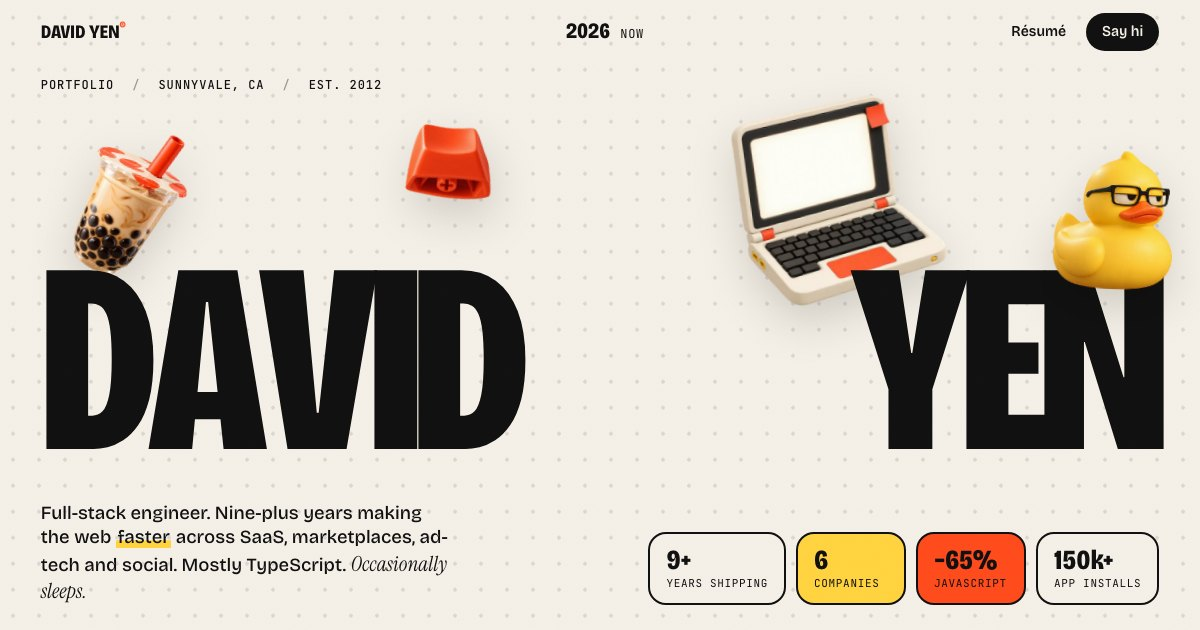
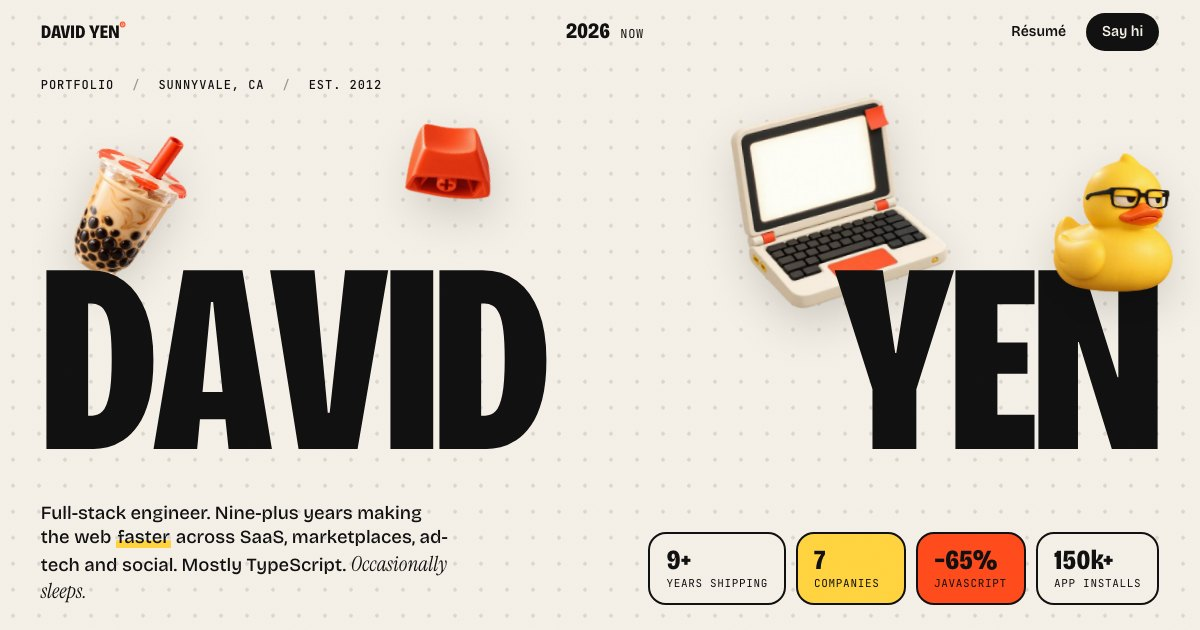
Add a classified Zoom chapter (2025–now)
- New seventh screen in Zoom blue on midnight navy. The name starts under a
  CLASSIFIED bar and is declassified as you scroll in. Redactions reveal
  nothing useful on hover/tap, and a spotlight follows the pointer across
  the grid.
- Copy names Zoom's Meeting SDK and Video SDK for the web. The one-line
  product descriptions follow developers.zoom.us; everything else stays
  redacted.
- Four new Codex image_gen toys: half-shuttered webcam, camera-off tile
  wall, muted mic, sealed folder.
- Typeface now ends in 2025; hero says 7 companies; DavidBot knows he's
  at Zoom; OG image, meta and README updated.

diff --git a/src/style.css b/src/style.css
@@ -339,7 +339,111 @@ mark {
   background: repeating-linear-gradient(0deg, var(--pc) 0 1px, transparent 1px 44px);
 }
 
-/* floating toys */
+/* Zoom: a spotlight that follows the pointer (or drifts on its own) and lights up the grid */
+@property --spx {
+  syntax: '<percentage>';
+  inherits: false;
+  initial-value: 72%;
+}
+@property --spy {
+  syntax: '<percentage>';
+  inherits: false;
+  initial-value: 42%;
+}
+.pattern--spot {
+  --pc: color-mix(in srgb, #0b5cff 55%, transparent);
+  background:
+    radial-gradient(circle at var(--spx) var(--spy), rgb(11 92 255 / 0.3), transparent 42vmax),
+    radial-gradient(var(--pc) 1.4px, transparent 1.9px) 0 0 / 22px 22px;
+  -webkit-mask-image: radial-gradient(circle 48vmax at var(--spx) var(--spy), #000, rgb(0 0 0 / 0.18) 62%, transparent);
+  mask-image: radial-gradient(circle 48vmax at var(--spx) var(--spy), #000, rgb(0 0 0 / 0.18) 62%, transparent);
+  animation: spot-drift 16s ease-in-out infinite alternate;
+  transition: --spx 0.9s var(--ease-out), --spy 0.9s var(--ease-out);
+}
+.has-pointer .pattern--spot {
+  animation: none;
+}
+@keyframes spot-drift {
+  0% {
+    --spx: 78%;
+    --spy: 30%;
+  }
+  50% {
+    --spx: 30%;
+    --spy: 60%;
+  }
+  100% {
+    --spx: 64%;
+    --spy: 78%;
+  }
+}
+
+/* redactions: black bars that declassify into something useless on hover/tap */
+.redact {
+  background: var(--ink);
+  color: var(--ink);
+  border-radius: 3px;
+  padding: 0 0.15em;
+  cursor: help;
+  outline-offset: 2px;
+  transition: background 0.25s, color 0.25s;
+}
+.redact:hover,
+.redact:focus-visible,
+.redact:focus {
+  background: transparent;
+  color: var(--name);
+  text-decoration: underline dashed;
+  text-underline-offset: 3px;
+}
+.co__role .redact {
+  background: var(--bg);
+  color: var(--bg);
+}
+.co__role .redact:hover,
+.co__role .redact:focus {
+  background: transparent;
+  color: var(--name);
+}
+.co__rec {
+  color: #ff3b4e;
+  font-weight: 700;
+  animation: blink 1.2s steps(2) infinite;
+}
+.is-mystery .co__name {
+  position: relative;
+  width: fit-content;
+}
+.redact-bar {
+  position: absolute;
+  inset: 0.04em -0.08em 0 -0.08em;
+  display: grid;
+  place-items: center;
+  background: #000;
+  border: 1px solid rgb(11 92 255 / 0.55);
+  border-radius: 0.04em;
+  transform-origin: 100% 50%;
+  pointer-events: none;
+}
+.redact-bar i {
+  font-family: var(--mono);
+  font-style: normal;
+  font-size: max(11px, 0.1em);
+  font-weight: 700;
+  letter-spacing: 0.45em;
+  text-transform: uppercase;
+  color: #0b5cff;
+}
+/* product names are long; keep the three Zoom stats on one row */
+.is-mystery .stat__num.is-word {
+  font-size: clamp(24px, 2.6vw, 42px);
+}
+.stat__num .redact {
+  padding: 0 0.08em;
+  border-radius: 0.06em;
+}
+
+/* floating toys *//* floating toys */
 .props {
   position: absolute;
   inset: 0;
@@ -1678,6 +1782,9 @@ mark {
   .co__stats.is-four .stat__num {
     font-size: clamp(22px, 6.6vw, 30px);
   }
+  .is-mystery .stat__num.is-word {
+    font-size: clamp(15px, 4.6vw, 22px);
+  }
   .stat__label {
     font-size: 9.5px;
     letter-spacing: 0;
@@ -1937,8 +2044,13 @@ mark {
   .hero__cue span,
   .projects__hint span,
   .bot-launch .badge,
-  .rewind__rew {
+  .rewind__rew,
+  .co__rec,
+  .pattern--spot {
     animation: none;
+  }
+  .redact-bar {
+    display: none;
   }
 }
 

diff --git a/index.html b/index.html
@@ -4,19 +4,19 @@
     <meta charset="UTF-8" />
     <meta name="viewport" content="width=device-width, initial-scale=1, viewport-fit=cover" />
     <title>David Yen · Full-stack engineer</title>
-    <meta name="description" content="David Yen, full-stack engineer in Sunnyvale, CA. Nine-plus years across Typeface, Houzz, Yahoo, Dcard and a few too many side projects. Mostly TypeScript." />
+    <meta name="description" content="David Yen, full-stack engineer in Sunnyvale, CA. Nine-plus years across Zoom, Typeface, Houzz, Yahoo, Dcard and a few too many side projects. Mostly TypeScript." />
     <meta name="theme-color" content="#F4EFE6" />
     <link rel="canonical" href="https://davidyen1124.github.io/portfolio/" />
     <meta property="og:type" content="website" />
     <meta property="og:title" content="David Yen · Full-stack engineer" />
-    <meta property="og:description" content="Six companies, too many side projects, one cookie banner. Scroll responsibly." />
+    <meta property="og:description" content="Seven companies, too many side projects, one cookie banner. Scroll responsibly." />
     <meta property="og:url" content="https://davidyen1124.github.io/portfolio/" />
     <meta property="og:image" content="https://davidyen1124.github.io/portfolio/og.jpg" />
     <meta property="og:image:width" content="1200" />
     <meta property="og:image:height" content="630" />
     <meta name="twitter:card" content="summary_large_image" />
     <meta name="twitter:title" content="David Yen · Full-stack engineer" />
-    <meta name="twitter:description" content="Six companies, too many side projects, one cookie banner. Scroll responsibly." />
+    <meta name="twitter:description" content="Seven companies, too many side projects, one cookie banner. Scroll responsibly." />
     <meta name="twitter:image" content="https://davidyen1124.github.io/portfolio/og.jpg" />
     <link rel="icon" href="/favicon.svg" type="image/svg+xml" />
     <link rel="apple-touch-icon" href="/apple-touch-icon.png" />
@@ -58,7 +58,7 @@
               </p>
               <ul class="hero__chips" aria-label="At a glance">
                 <li><b>9+</b><span>years shipping</span></li>
-                <li><b>6</b><span>companies</span></li>
+                <li><b>7</b><span>companies</span></li>
                 <li><b>−65%</b><span>JavaScript</span></li>
                 <li><b>150k+</b><span>app installs</span></li>
               </ul>
@@ -144,7 +144,7 @@
 
     <noscript>
       <style>.loader{display:none}</style>
-      <p style="padding:2rem;font:16px/1.5 system-ui">David Yen, full-stack engineer. Typeface (2023–now), Houzz (2021–2023), Yahoo (2017–2021), Dcard (2013–2015), CHOCOLABS (2014–2015), Sparks Lab (2012–2015). Email davidyen1124@gmail.com.</p>
+      <p style="padding:2rem;font:16px/1.5 system-ui">David Yen, full-stack engineer. Zoom (2025–now), Typeface (2023–2025), Houzz (2021–2023), Yahoo (2017–2021), Dcard (2013–2015), CHOCOLABS (2014–2015), Sparks Lab (2012–2015). Email davidyen1124@gmail.com.</p>
     </noscript>
     <script type="module" src="/src/main.ts"></script>
   </body>

diff --git a/src/content.ts b/src/content.ts
@@ -48,7 +48,9 @@ export interface Company {
   where: string
   year: number
   theme: Theme
-  pattern: 'dots' | 'grid' | 'stripes' | 'checker' | 'rings' | 'lines'
+  pattern: 'dots' | 'grid' | 'stripes' | 'checker' | 'rings' | 'lines' | 'spot'
+  /** Classified: the name starts redacted and gets declassified as you scroll in. */
+  mystery?: boolean
   line: string
   stats: Stat[]
   foot?: string
@@ -226,12 +228,12 @@ export const COMPANIES: Company[] = [
     id: 'typeface',
     name: 'Typeface',
     role: 'Senior Software Engineer',
-    when: 'Nov 2023 — now',
+    when: 'Nov 2023 — 2025',
     where: 'Bay Area',
     year: 2023,
     theme: { bg: '#FD243E', ink: '#111013', accent: '#111013', soft: '#FF6B7D', name: '#111013' },
     pattern: 'stripes',
-    line: 'Making an enterprise AI marketing platform feel fast. Deleted two-thirds of the JavaScript and nobody noticed, which was the whole point.',
+    line: 'Made an enterprise AI marketing platform feel fast. Deleted two-thirds of the JavaScript and nobody noticed, which was the whole point.',
     stats: [
       { to: 65, prefix: '−', suffix: '%', label: 'JS bundle, code-split + lazy loaded' },
       { text: '60m→2s', label: 'marketing site builds with Next.js ISR' },
@@ -251,6 +253,38 @@ export const COMPANIES: Company[] = [
       color: '#111013',
       title: 'Bundle is 65% smaller',
       body: 'Webpack is taking some time off to process this.',
+    },
+  },
+  {
+    id: 'zoom',
+    name: 'Zoom',
+    role: '<span class="redact" tabindex="0" title="Classified">Engineer</span> Engineer',
+    when: '2025 — now',
+    where: 'Classified',
+    year: 2025,
+    mystery: true,
+    theme: { bg: '#00031F', ink: '#D1DEF2', accent: '#0B5CFF', soft: '#00053D', name: '#0B5CFF' },
+    pattern: 'spot',
+    line: 'Joined in 2025. Something to do with Zoom’s Meeting SDK and Video SDK for the web, which is about all I’m allowed to say. The rest is <span class="redact" tabindex="0">still on mute</span>.',
+    stats: [
+      { text: 'Meeting SDK', label: 'Zoom meetings & webinars, embedded in other apps' },
+      { text: 'Video SDK', label: 'video, audio & screen share for your own UI' },
+      { text: '<span class="redact" tabindex="0">nice try</span>', label: 'numbers pending declassification' },
+    ],
+    foot: 'Full details once I’m allowed to share them. Until then, please enjoy this <b>very mysterious webcam</b>.',
+    tape: ['Meeting SDK', 'Video SDK', 'For the web', '[REDACTED]', 'You’re on mute', 'Camera on', '2025 → now'],
+    props: [
+      { img: 'zoom-camera', x: 80, y: 40, w: 21, depth: 0.8, rot: -6 },
+      { img: 'zoom-tiles', x: 63, y: 84, w: 18, depth: 0.6, rot: 5 },
+      { img: 'zoom-mic', x: 92, y: 80, w: 11, depth: 1, rot: 10 },
+      { img: 'zoom-folder', x: 57, y: 22, w: 11, depth: 0.35, rot: -10 },
+    ],
+    notif: {
+      app: 'Zoom',
+      icon: '●',
+      color: '#0B5CFF',
+      title: 'Meeting starts in 1 minute',
+      body: 'Topic: ████████. Camera optional. Mystery mandatory.',
     },
   },
 ]

diff --git a/src/render.ts b/src/render.ts
@@ -41,15 +41,15 @@ function companyTag(c: Company, i: number) {
   const style = `--bg:${t.bg};--ink:${t.ink};--accent:${t.accent};--soft:${t.soft};--name:${t.name ?? t.accent}`
   const tapeWords = [...c.tape, ...c.tape].map((w) => `<span>${w}</span>`).join('')
   return `
-  <section class="scene co co--${c.id}" id="${c.id}" data-theme="${c.id}" data-year="${c.year}" data-where="${c.where}" style="${style}">
+  <section class="scene co co--${c.id}${c.mystery ? ' is-mystery' : ''}" id="${c.id}" data-theme="${c.id}" data-year="${c.year}" data-where="${c.where}" style="${style}">
     <div class="stage">
       <div class="pattern pattern--${c.pattern}" aria-hidden="true"></div>
       <div class="props" aria-hidden="true">${c.props.map(propTag).join('')}</div>
       <div class="co__copy safe">
-        <p class="co__meta eyebrow"><span class="co__idx">${String(i + 1).padStart(2, '0')} / ${String(COMPANIES.length).padStart(2, '0')}</span><span>${c.when}</span><span>${c.where}</span><span class="co__role">${c.role}</span></p>
+        <p class="co__meta eyebrow"><span class="co__idx">${String(i + 1).padStart(2, '0')} / ${String(COMPANIES.length).padStart(2, '0')}</span><span>${c.when}</span><span>${c.where}</span><span class="co__role">${c.role}</span>${c.mystery ? '<span class="co__rec">● REC</span>' : ''}</p>
         <h2 class="co__name${lines.length > 1 ? ' is-two' : ''}" style="--len:${Math.max(...lines.map((l) => l.replace(/<[^>]+>/g, '').length))}" aria-label="${c.name}">${lines
           .map((l) => `<span class="line" aria-hidden="true"><span class="line__in">${l}</span></span>`)
-          .join('')}</h2>
+          .join('')}${c.mystery ? '<span class="redact-bar" aria-hidden="true"><i>Classified</i></span>' : ''}</h2>
         <p class="co__line">${c.line}</p>
         <ul class="co__stats${c.stats.length === 4 ? ' is-four' : ''}" style="--n:${c.stats.length}">${c.stats.map(statTag).join('')}</ul>
         ${c.foot ? `<p class="co__foot">${c.foot}</p>` : ''}

diff --git a/src/scenes.ts b/src/scenes.ts
@@ -194,6 +194,9 @@ export function companyScene(section: HTMLElement) {
     num.textContent = fmt(num, 0)
     tl.to(c, { v: to, duration: 0.55, ease: 'power2.out', onUpdate: () => (num.textContent = fmt(num, c.v)) }, at + 0.05)
   })
+  // classified: the name sits under a redaction bar until it has fully risen, then gets declassified
+  const bar = section.querySelector('.redact-bar')
+  if (bar && motion) tl.fromTo(bar, { scaleX: 1 }, { scaleX: 0, duration: 0.35, ease: 'power2.inOut' }, 0.92)
   const foot = section.querySelector('.co__foot')
   if (foot && motion) tl.from(foot, { y: 20, opacity: 0, duration: 0.3, ease: 'power2.out' }, 1.05)
 
@@ -280,6 +283,24 @@ export function endScene() {
     tl.from('.end__title .char', { yPercent: 110, rotation: 8, stagger: 0.02, duration: 0.4, ease: 'power3.out' }, 0.45)
     tl.from(['.end__inner > .eyebrow', '.end__lede', '.end__actions'], { y: 30, opacity: 0, stagger: 0.05, duration: 0.3, ease: 'power2.out' }, 0.55)
   }
+}
+
+/* ——— Zoom's spotlight follows the pointer (fine pointers only; otherwise it drifts by itself) ——— */
+
+export function spotlight(getScene: () => HTMLElement | null) {
+  if (!motion || !matchMedia('(pointer: fine)').matches) return
+  document.documentElement.classList.add('has-pointer')
+  window.addEventListener(
+    'pointermove',
+    (e) => {
+      const spot = getScene()?.querySelector<HTMLElement>('.pattern--spot')
+      if (!spot) return
+      const r = spot.getBoundingClientRect()
+      spot.style.setProperty('--spx', `${(((e.clientX - r.left) / r.width) * 100).toFixed(1)}%`)
+      spot.style.setProperty('--spy', `${(((e.clientY - r.top) / r.height) * 100).toFixed(1)}%`)
+    },
+    { passive: true },
+  )
 }
 
 /* ——— mouse parallax on the toys (fine pointers only) ——— */

diff --git a/src/ui/bot.ts b/src/ui/bot.ts
@@ -26,7 +26,10 @@ const RULES: [RegExp, string | string[]][] = [
   ]],
   [/stack|tech|skill|language|typescript|javascript|\bjs\b|\bts\b|react|next|node|python|aws|framework/i, 'TypeScript, React, Next.js, Node, some Python and AWS. He also learned GSAP for this website, so if anything bounces, that’s why.'],
   [/cookie/i, 'I’m not allowed to talk about the cookie banner. Legal is still recovering.'],
-  [/typeface/i, 'His current job: senior engineer at Typeface. Made the JS bundle 65% smaller. Webpack still hasn’t called back.'],
+  [/meeting sdk|video sdk|\bsdk\b/i, 'Per Zoom’s docs: the Meeting SDK embeds the Zoom meeting and webinar experience in an app or website, and the Video SDK gives you video, audio, screen sharing and chat to build your own UI. What David does with them is classified.'],
+  [/zoom/i, 'Zoom, since 2025. Something with the Meeting SDK and the Video SDK, for the web. I asked for details and got back a black bar. I respect it.'],
+  [/current|currently|right now|nowadays|work(s|ing)? (at|now)|\bjob now\b/i, 'Zoom, since 2025. Meeting SDK, Video SDK, the web. That’s all I have. You didn’t hear it from me. You didn’t hear it from anyone.'],
+  [/typeface/i, 'Typeface, 2023 to 2025. Senior engineer. Made the JS bundle 65% smaller. Webpack still hasn’t called back.'],
   [/houzz/i, 'Houzz, 2021 to 2023. Built the “All Results” search. Has seen more kitchen islands than any human should.'],
   [/yahoo/i, 'Yahoo, 2017 to 2021. Made the reports twice as fast. The exclamation mark was already there when he arrived.'],
   [/dcard/i, 'Founding engineer at Dcard. Helped it grow 10×, from 300 users to 3,000. Everyone starts somewhere.'],

diff --git a/src/main.ts b/src/main.ts
@@ -9,7 +9,7 @@ import Lenis from 'lenis'
 import { COMPANIES, END_NOTIF, HERO_NOTIF, LOADER_LINES, PROJECTS_NOTIF, type Notif } from './content'
 import { $, $$, QA, charify, reduced, session, wait } from './lib'
 import { refreshStars, renderCompanies, renderHero, renderProjects } from './render'
-import { companyScene, endScene, heroIntro, heroScene, measureBands, mouseParallax, projectsScene, rewindScene, state } from './scenes'
+import { companyScene, endScene, heroIntro, heroScene, measureBands, mouseParallax, projectsScene, rewindScene, spotlight, state } from './scenes'
 import { initBot } from './ui/bot'
 import { cookieBanner } from './ui/cookies'
 import { initNotifs, notify } from './ui/notify'
@@ -105,6 +105,7 @@ for (const s of $$('.co')) companyScene(s)
 projectsScene()
 endScene()
 mouseParallax(() => current)
+spotlight(() => current)
 
 gsap.to('.progress i', { scaleX: 1, ease: 'none', scrollTrigger: { start: 0, end: 'max', scrub: 0.3 } })
 ScrollTrigger.create({ start: 0, end: 'max', onUpdate: syncHud, onRefresh: syncHud })

diff --git a/README.md b/README.md
@@ -19,7 +19,8 @@ The old version was a walk-around 3D museum. It is in the git history, where it 
 | CHOCOLABS (2014) | chocolate + candy pink | chocolate bar, chocolate vinyl, headphones, test tube |
 | Yahoo (2017) | Yahoo purple | exclamation mark, bar chart, hourglass, anomaly under a magnifier |
 | Houzz (2021) | Houzz green on linen | sofa, arc lamp, monstera, tiny house |
-| Typeface (2023–now) | Typeface red + black | cursor, a box in a C-clamp (the bundle), canvas, rosette |
+| Typeface (2023–2025) | Typeface red + black | cursor, a box in a C-clamp (the bundle), canvas, rosette |
+| Zoom (2025–now) | Zoom blue on midnight navy | a webcam with its shutter half-closed, a wall of camera-off tiles, a muted mic, a sealed folder. The name starts under a CLASSIFIED bar and gets declassified as you scroll; the redactions reveal nothing useful on hover |
 | Side projects | black | a horizontal track of cards, star counts fetched live from GitHub |
 | The end | cream | contact, awards, education |
 
@@ -43,7 +44,7 @@ Pushing to `main` deploys to GitHub Pages via [`.github/workflows/deploy.yml`](.
 
 ## The art
 
-Every illustration was generated with **Codex CLI**'s built-in `image_gen` tool: 40 isolated "designer vinyl toy" renders on transparent backgrounds, so they can float as parallax layers over any brand colour. The briefs and the shared style prompt are in [`art/manifest.mjs`](art/manifest.mjs).
+Every illustration was generated with **Codex CLI**'s built-in `image_gen` tool: 44 isolated "designer vinyl toy" renders on transparent backgrounds, so they can float as parallax layers over any brand colour. The briefs and the shared style prompt are in [`art/manifest.mjs`](art/manifest.mjs).
 
 ```bash
 npm run art:gen -- hero-duck     # one codex exec per image → art/raw/<name>.png (git-ignored)

diff --git a/AGENTS.md b/AGENTS.md
@@ -4,7 +4,7 @@ A scroll-driven portfolio: TypeScript + Vite + GSAP ScrollTrigger + Lenis, deplo
 
 ## Layout of the code
 
-- `src/content.ts`: every word, number, colour and toy position. Facts must match `public/resume.pdf`. Jokes are welcome, but only when they are obviously jokes.
+- `src/content.ts`: every word, number, colour and toy position. Facts must match `public/resume.pdf`, except Zoom (2025–now), which David added directly and wants kept mysterious: Zoom's Meeting SDK and Video SDK for the web, nothing more. Describe the products only the way Zoom's own docs do (developers.zoom.us), and never invent what David built. Jokes are welcome, but only when they are obviously jokes.
 - `src/render.ts`: builds the company screens, hero toys and project cards from the content.
 - `src/scenes.ts`: all scroll choreography. Each scene after the hero has `margin-top: -100vh` and a sticky `.stage`, so it slides over the previous one. A scene's timeline spans three screens: entering, alone, covered.
 - `src/ui/`: the fake notifications, cookie banner and DavidBot.
